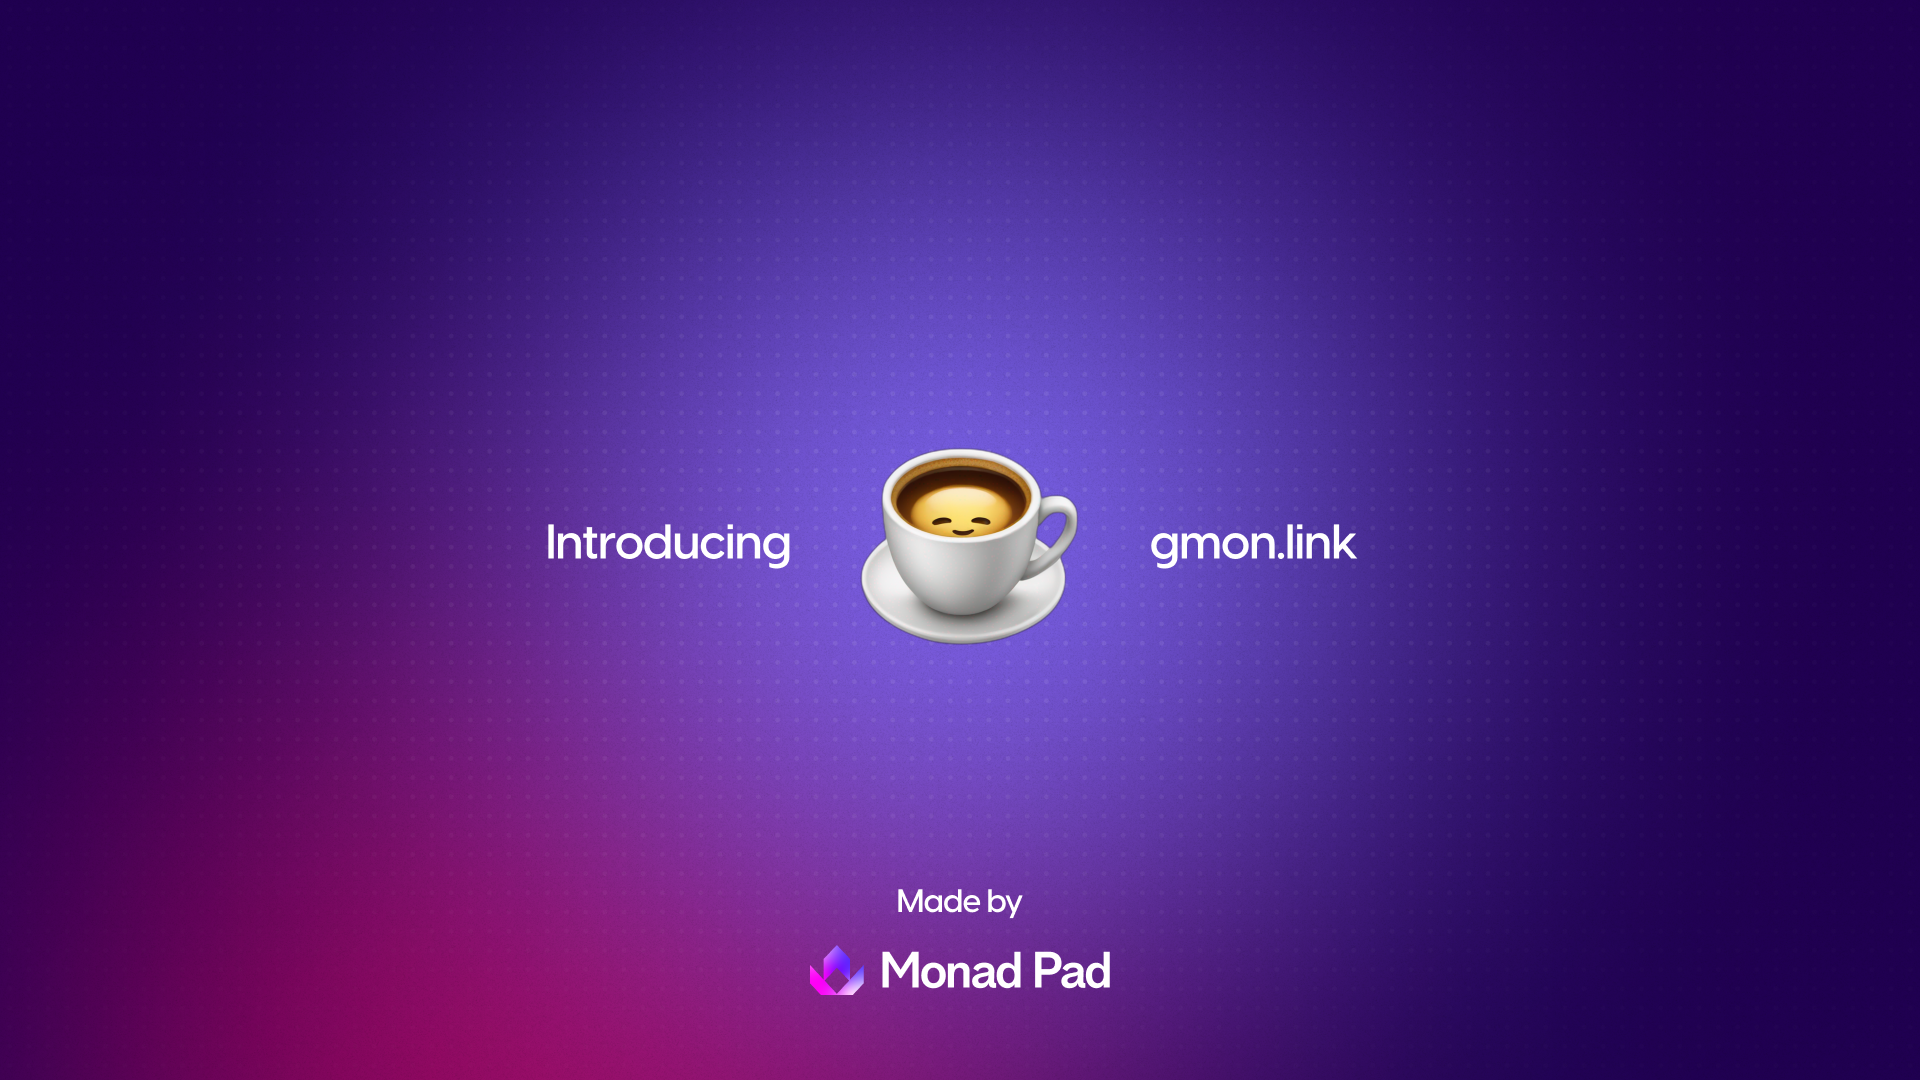
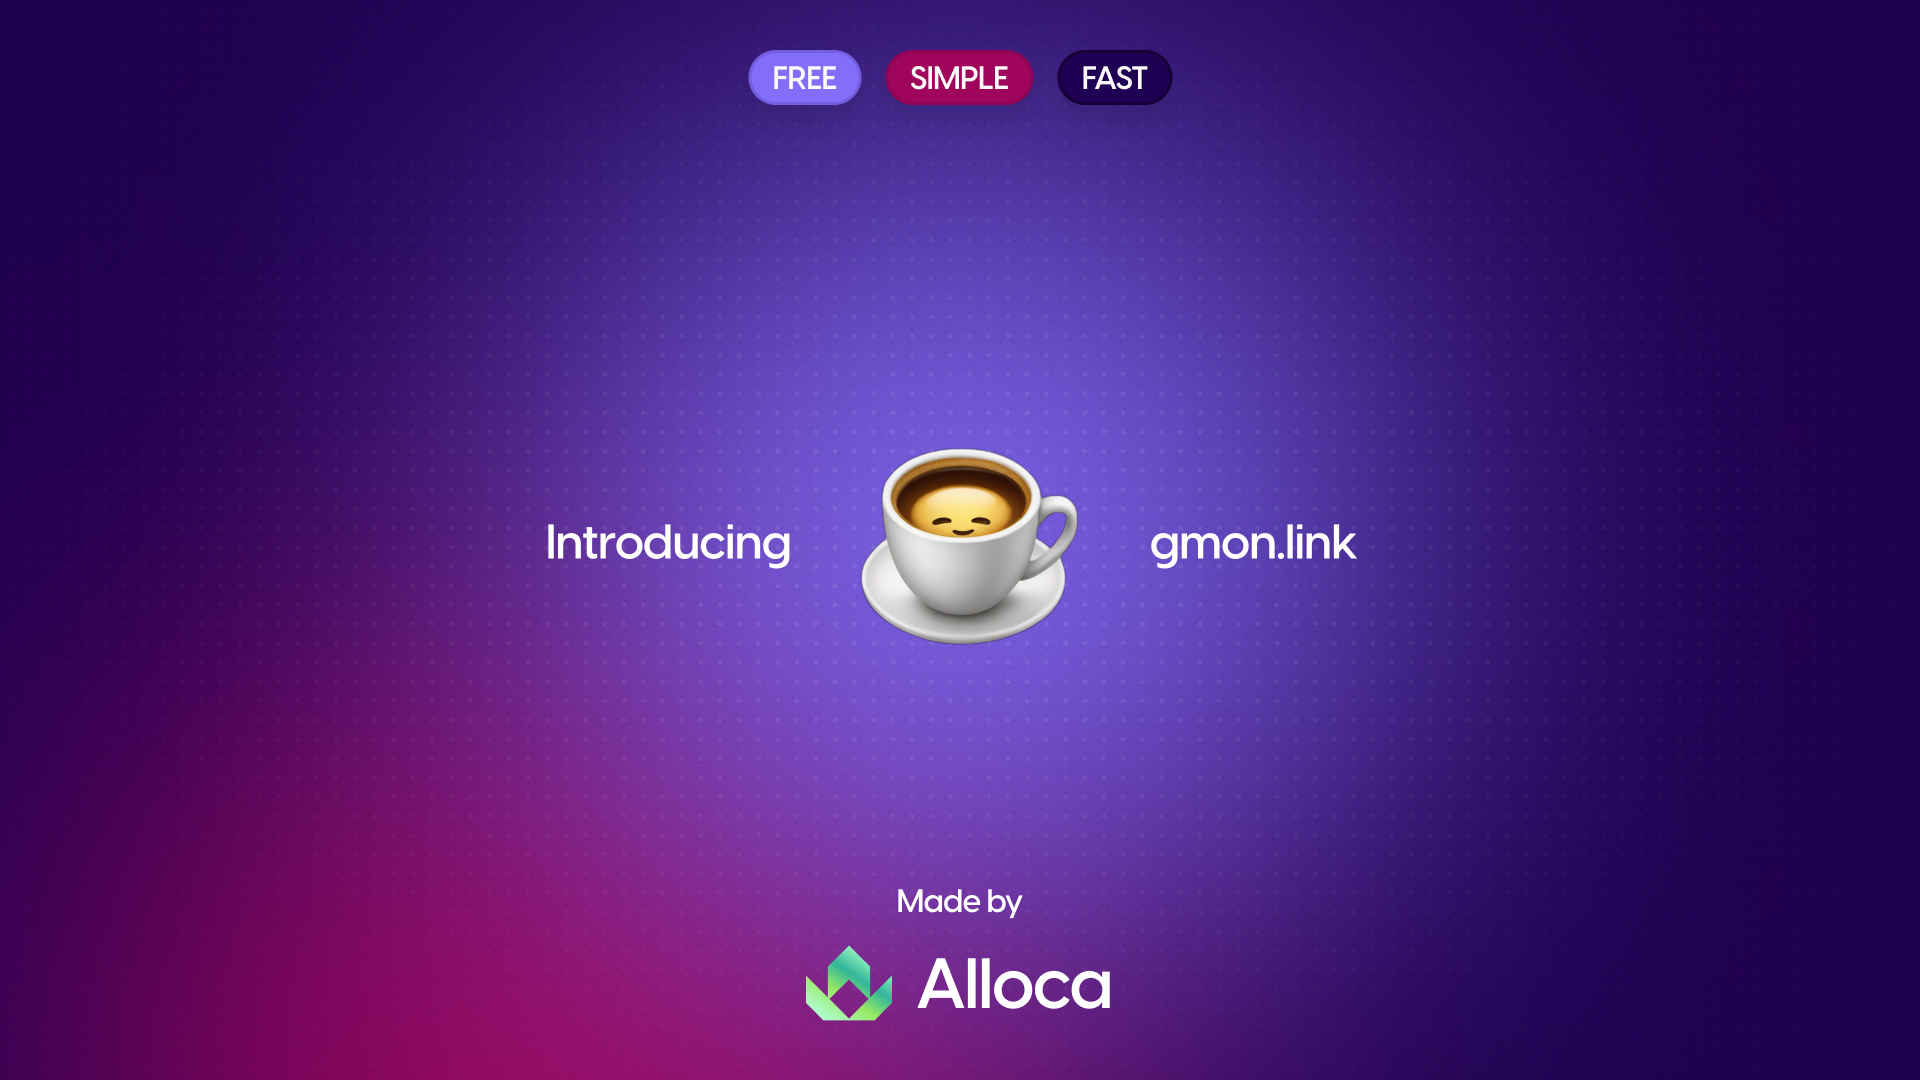
feat: monadpad to alloca rebrand

Changed region(s): [[0.375, 0.0306, 0.625, 0.1222], [0.4062, 0.8861, 0.5938, 0.9472]]

diff --git a/README.md b/README.md
@@ -108,7 +108,7 @@ npm run dev
 You can now access the application at `http://localhost:3000`.
 
 # Made by Monad Pad
-![Monad Pad Banner](/public/assets/monadpad-image.png)
-This micro tool is made by [Monad Pad](https://www.monadpad.xyz) - the leading launchpad on Monad.
+![Monad Pad Banner](/public/assets/alloca-image.png)
+This micro tool is made by [Monad Pad](https://www.alloca.xyz) - the leading launchpad on Monad.
 
 This is not affiliated with Monad in any way.
